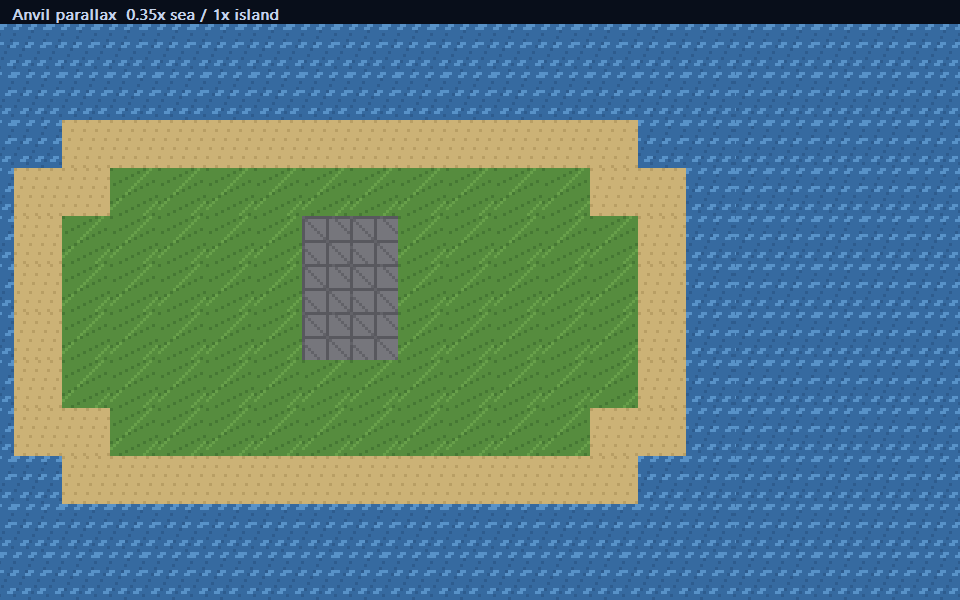
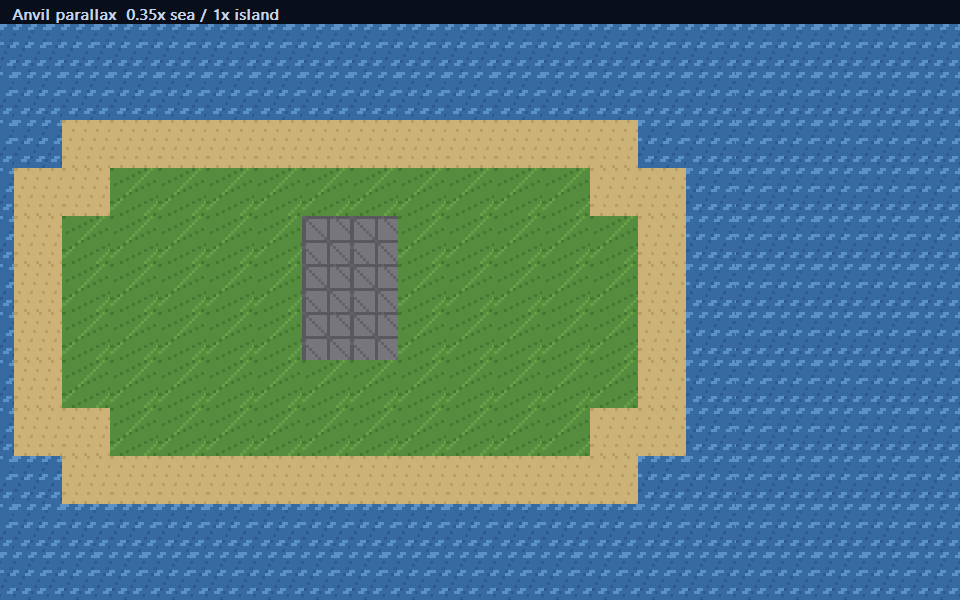
Run visual smoke examples from source directories

diff --git a/tools/visual_smoke.py b/tools/visual_smoke.py
@@ -82,7 +82,9 @@ def measure(name: str, source: str, settle: float) -> dict[str, object]:
             raise SystemExit(f"{name}: build failed\n{build.stderr}")
         process = subprocess.Popen(
             [str(executable)],
-            cwd=ROOT,
+            # Match `anvil --run`: standalone examples resolve relative assets
+            # from the source file's directory, not the checkout root.
+            cwd=example.parent,
             stdout=subprocess.DEVNULL,
             stderr=subprocess.DEVNULL,
         )
